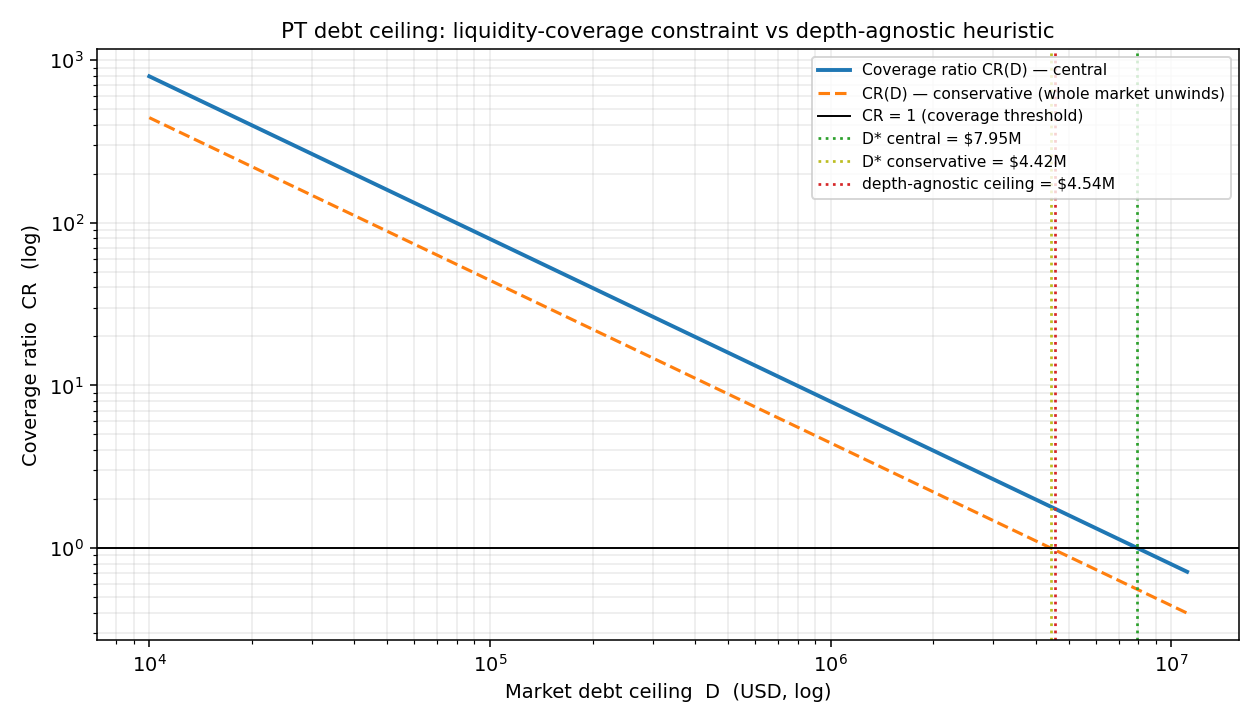
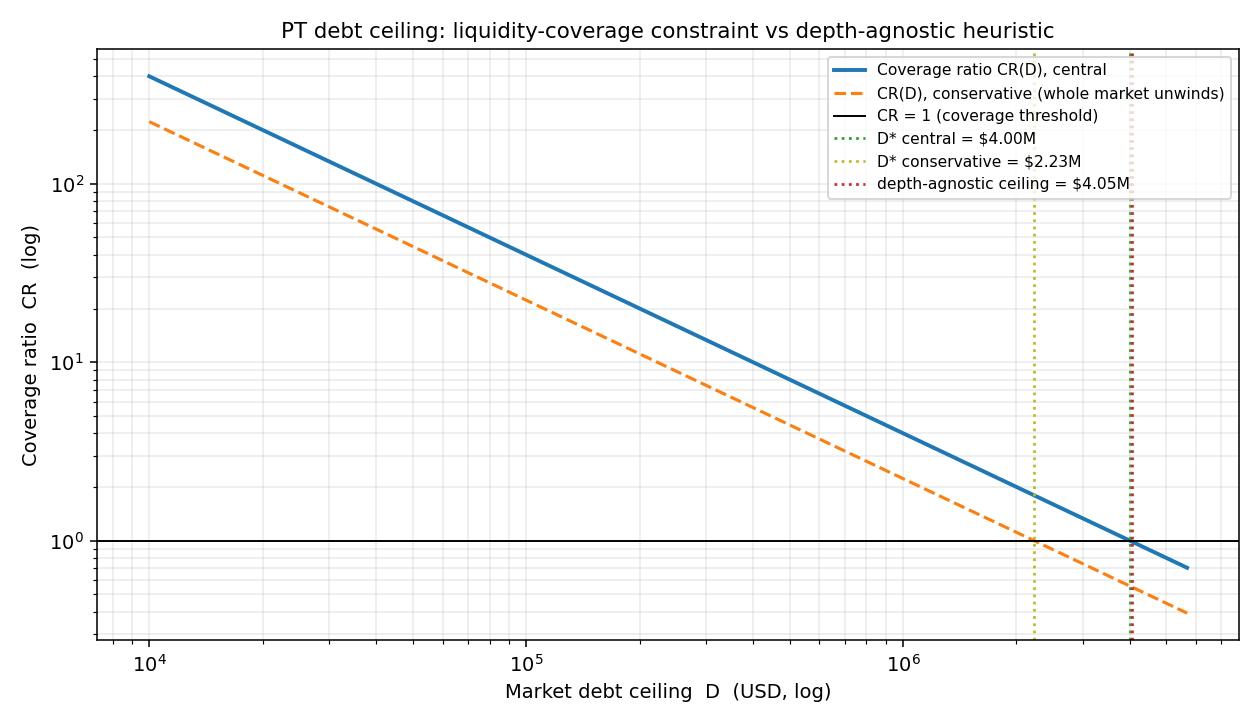
Governance post: dual-anchor empirical section (near-maturity cliff vs far-maturity gradual regime), Pendle-only provenance curves, retrieval signature fix

diff --git a/pendle_depth.py b/pendle_depth.py
@@ -92,6 +92,7 @@ def fetch_swap_quote(
     token_out: str,
     amount_in_wei: int,
     receiver: str,
+    enable_aggregator: bool,
     timeout: float,
     soft: bool = False,
 ) -> dict[str, Any] | None:
@@ -151,8 +152,10 @@ def build_depth_curve(
     for size_pt in sizes_pt:
         amount_in_wei = int(round(size_pt * (10 ** pt_decimals)))
         data = fetch_swap_quote(
-            base_url, chain_id, market, pt_address, out_token,
-            amount_in_wei, receiver, enable_aggregator, timeout, soft=True,
+            base_url=base_url, chain_id=chain_id, market=market,
+            token_in=pt_address, token_out=out_token,
+            amount_in_wei=amount_in_wei, receiver=receiver,
+            enable_aggregator=enable_aggregator, timeout=timeout, soft=True,
         ) or {}
         block = data.get("data") or {}
         amount_out_wei = block.get("amountOut")

diff --git a/README.md b/README.md
@@ -1,140 +1,92 @@
-# LlamaLend PT Debt Ceilings: a Liquidity-Coverage Toolkit
+# Morpho Blue — Liquidity Stress Testing Framework
 
-Sizing Pendle Principal Token (PT) debt ceilings in Curve LlamaLend from **soft-liquidation capacity** under correlated stress. Companion code to a governance research contribution on gov.curve.finance (empirical anchor: the PT-sUSDe market maturing 13 August 2026).
+> A Basel III–inspired liquidity stress testing framework applied to Morpho Blue isolated lending markets and MetaMorpho vaults.
 
-## The idea in one paragraph
+**Status**: Phase 0 — methodological draft. Not production-ready. Not investment advice.
 
-LlamaLend lends crvUSD against PT collateral. A PT is economically a zero-coupon
-claim that redeems 1:1 for an underlying at a fixed date. If collateral value
-falls, LLAMMA (Curve's soft-liquidation AMM) must progressively convert that PT
-into crvUSD, which ultimately means **selling the PT into its secondary market
-(Pendle)**. The more you must sell, the worse the price (slippage). The trap:
-the event that *forces* the sale (an underlying depeg / a widening PT discount)
-is the same event that *drains* PT liquidity. That is a fire-sale exactly when you can
-least afford one, producing bad debt for lenders. So the binding question is not
-"what is the PT worth" (oracles solved that) but **"can the market absorb the
-forced unwind without a fire-sale?"** This toolkit answers it by transposing the
-Basel III Liquidity Coverage Ratio (BCBS 238) survival-horizon logic onchain:
+---
+
+## Motivation
+
+DeFi lending pools are inherently fragile under stress (Chiu et al., BIS 2023), yet most public risk reporting on DeFi protocols transposes Basel concepts informally. This project formalizes a Basel III–equivalent liquidity stress framework for Morpho Blue, with two contributions:
+
+1. An explicit on-chain analogue of the **Liquidity Coverage Ratio (LCR)** and **Net Stable Funding Ratio (NSFR)**, with stated mapping limitations.
+2. A first quantitative measure of **MetaMorpho curator risk discipline** — the gap between observed allocation and the allocation that minimizes 30-day liquidity Value-at-Risk under the framework.
+
+The work is calibrated on the April 2026 KelpDAO event as a primary stress anchor, alongside the March 2023 USDC depeg and the May 2022 stETH discount.
+
+---
+
+## Repository structure
 
 ```
-Coverage ratio:  CR(D) = L_stress / V_liq(D)
-Safe ceiling:    D* = max { D : CR(D) >= 1 }
+morpho-blue-liquidity-stress/
+├── docs/
+│   ├── METHODOLOGY.md       # Core methodological note (start here)
+│   └── references.md        # Annotated bibliography
+├── src/                     # Python implementation (Phase 2+)
+├── data/                    # Local Parquet cache (Phase 2+)
+├── notebooks/               # Reproducible analyses (Phase 3+)
+├── scripts/                 # Data acquisition entry points (Phase 2+)
+├── tests/                   # pytest suite (Phase 2+)
+└── README.md
 ```
 
-* `V_liq(D)`: PT collateral the market is forced to unwind under stress, given debt ceiling D
-* `L_stress`: PT secondary liquidity absorbable within an acceptable slippage bound, after a maturity haircut and a wrong-way (procyclical) depth-contraction factor
+---
 
-If `V_liq(D) > L_stress`, the market is over-sized; `D*` is the largest safe size.
+## Roadmap
 
-## Files
-
-| File | Role | Needs internet? |
+| Phase | Deliverable | Status |
 |---|---|---|
-| `coverage_model.py` | Core math: V_liq, L_stress, CR, D*, benchmark. Pure, typed, tested. | No |
-| `run_analysis.py` | CLI: load depth curve, produce report + chart. | No |
-| `synthetic.py` | Synthetic depth curve to demo the pipeline. **Illustrative only.** | No |
-| `discover_market.py` | Lists active Pendle markets matching a name and prints a ready-to-paste `pendle_depth.py` command with the correct addresses. | **Yes (Pendle API)** |
-| `pendle_depth.py` | Retrieval: builds the REAL PT price-impact curve from Pendle API swap quotes. | **Yes (Pendle API)** |
-| `dune/underlying_price_history.sql` | Underlying price history: stress depeg + rho calibration. | Run on Dune |
-| `dune/pendle_pt_liquidity_context.sql` | Pendle market liquidity context over time: rho. | Run on Dune |
-| `tests/test_coverage_model.py` | Unit tests (run: `python tests/test_coverage_model.py`). | No |
-| `pt_depth_curve.csv` | Measured PT-sUSDe depth curve (Pendle API quotes) used in the forum analysis. | n/a |
-| `example_depth_curve.csv` | Minimal CSV schema example. | n/a |
-| `coverage_chart.png`, `dstar_vs_rho.png` | Output figures. | n/a |
+| **0** | Methodological note (`docs/METHODOLOGY.md`) | ✅ v0.2 |
+| **1** | Stress scenario formalization (`docs/SCENARIOS.md`) | ✅ v0.1 |
+| **2** | Data acquisition architecture (`docs/DATA.md`) + storage layer + tests | ✅ partial — architecture done, fetch scripts as skeletons |
+| **3** | Modeling: LCR_onchain, NSFR_conditional, slippage model, MC | ⏳ pending |
+| **4** | Historical backtest (KelpDAO + 2 secondary events) | ⏳ pending |
+| **5** | Forward-looking stress on top-5 markets | ⏳ pending |
+| **6** | Public deliverables (Dune dashboard, Mirror article, X thread) | ⏳ pending |
 
-## Quick start
+## Quick start (Phase 2 architecture)
 
 ```bash
-pip install -r requirements.txt
+# Install
+uv venv && source .venv/bin/activate
+uv pip install -e ".[dev]"
 
-# 1) Verify the engine and run an illustrative demo (no network):
-python tests/test_coverage_model.py
-python run_analysis.py --synthetic          # writes coverage_chart.png
+# Run the test suite (17 tests, ~2s)
+PYTHONPATH=src pytest tests/ -v
 
-# 2) Find a market and pull a REAL depth curve (needs Pendle API access).
-#    discover_market.py prints a ready-to-paste pendle_depth.py command
-#    with the correct market, PT, and out-token addresses:
-python discover_market.py --query sUSDe
-
-# 3) Run the analysis on a measured curve. Parameter values below are
-#    illustrative; the exact PT-sUSDe calibration used in the forum post
-#    is documented in the post itself:
-python run_analysis.py --depth-csv pt_depth_curve.csv \
-    --maturity-years 0.5 --max-ltv 0.90 --representative-ltv 0.80 \
-    --pool-tvl 100e6 --band-drop 0.08 \
-    --depeg 0.03 --discount-widen 0.04 --horizon-days 2 \
-    --sigma-max 0.02 --maturity-haircut 0.15 --rho 0.5 --underlying-vol 0.10
+# Set up local config
+cp config.yaml config.local.yaml  # then edit to add secrets via env vars
 ```
 
-## The three real inputs (and where to get them)
+---
 
-1. **Depth / slippage curve**: `pendle_depth.py` (Pendle Hosted SDK swap quotes
-   over a grid of sizes). This is the load-bearing input.
-2. **Stress calibration** (`--depeg`, `--discount-widen`): from the underlying's
-   worst historical deviation and the PT discount history (`dune/underlying_price_history.sql`).
-3. **Wrong-way factor** (`--rho`): from the co-movement of underlying deviation
-   and PT depth (both Dune queries). Until estimated, treat `rho` as a sensitivity input.
+## How to read this repo (for reviewers / employers)
 
-## Model scope and assumptions (v0.1)
+If you have **5 minutes**: read [`docs/METHODOLOGY.md`](./docs/METHODOLOGY.md) §1–2 and §4. That is the entire intellectual contribution at the methodology layer.
 
-The ceiling D* is an indicative figure under stated assumptions, not a guarantee. Read these before quoting any number:
+If you have **30 minutes**: read the full methodology note and skim the bibliography in [`docs/references.md`](./docs/references.md) to assess the academic grounding.
 
-* Static coverage constraint, not a simulation: no dynamic model of LLAMMA band traversal, oracle path, arbitrage or de-liquidation. The soft-liquidated fraction is a linear proxy in the collateral shock.
-* The horizon H parameterises the calibration of the stress inputs (depeg, discount widening, withdrawal fraction are H-horizon stressed moves); stressed depth is treated as instantaneous capacity with no replenishment term, which is conservative for multi-day horizons.
-* The maturity effect enters through the exogenous haircut h(tau) supplied per maturity family; `maturity_years` feeds the depth-agnostic benchmark, not the coverage formula.
-* A single representative LTV stands in for the borrower distribution; `max_ltv` is a validation bound.
-* Every unit unwound by LLAMMA is assumed to hit Pendle secondary liquidity one for one (no OTC absorption, no holders of last resort): conservative.
-
-## Limitations
-
-* **`synthetic.py` is illustrative only.** No number in the accompanying
-  analysis derives from it; every published figure comes from real retrieval
-  (`pt_depth_curve.csv`).
-* **The AMM is treated as source of truth, not re-implemented.** `pendle_depth.py`
-  asks Pendle for quotes rather than re-deriving its (Notional-style) AMM math,
-  to avoid correctness risk. A fully trustless alternative is to read the
-  onchain `MarketState` and price with Pendle's own SDK: heavier, same result.
-* **`V_liq` is modeled, not measured.** Where LlamaLend v2 PT markets are not
-  live, the unwound-volume side uses a parametric soft-liquidation model
-  (`soft_liq_band_drop`, `representative_ltv`). It is the most assumption-heavy
-  piece; report it with sensitivity, not as a point estimate.
-* **The benchmark ceiling is illustrative.** `heuristic_depth_agnostic_ceiling`
-  is a depth-agnostic stand-in to make the comparison concrete; the contribution
-  is the *method* and the *relative* result (does execution bind tighter?), not
-  that specific number.
-* **API drift.** Pendle and Dune routes change; `pendle_depth.py` fails loudly on
-  a schema mismatch. Verify against current Pendle API docs.
+If you have **2 hours**: clone the repo (when implementation phases land), reproduce the dashboard end-to-end from `scripts/`, and verify the stress test on the KelpDAO replay scenario.
 
 ---
 
-## Citing this work
+## Methodological positioning
 
-If this toolkit informs your research or analysis, please cite:
-
-> Pierre-Antoine Andrighetti. (2026). *LlamaLend PT debt ceilings: a liquidity-coverage toolkit for Pendle principal-token collateral under correlated stress.* https://github.com/paandrighetti/llamalend_pt_coverage
-
----
-
-## Contact
-
-https://www.linkedin.com/in/pierre-antoine-andrighetti
-https://x.com/bandulf
[email redacted]
+| Reference | Approach | Our positioning |
+|---|---|---|
+| Gauntlet, Chaos Labs | Agent-based simulation of liquidations | We are simpler (deterministic stress shocks at empirical quantiles) and explicitly acknowledge this gap; targeted as v1. |
+| LlamaRisk, Block Analitica | Descriptive risk reports per market | We provide an explicit Basel mapping and a falsifiable hypothesis structure that they do not. |
+| Chiu et al. (BIS 2023) | Theoretical model of DeFi run dynamics | We are empirical / applied; their model justifies our framework's relevance but our work is implementation-oriented. |
+| Steakhouse Financial | Vault-curator centric | Our hypothesis 2 explicitly targets curator risk discipline as a quantifiable gap — a question they engage with operationally but do not formalize. |
 
 ---
-
-## Depth measurement notes
-
-`pendle_depth.py` v0.2 quotes with aggregator routing disabled by default (`--enable-aggregator` to opt in), enforces a spot sanity check on the smallest execution, and writes provenance columns (timestamp, chain, market, addresses, API base, routing mode) into the CSV. The committed `pt_depth_curve.csv` was pulled with the pre-v0.2 script (aggregator enabled, no provenance columns); re-pull with the current script to reproduce the curve under Pendle-only routing.
 
 ## License
 
-MIT. See [LICENSE](./LICENSE).
+MIT (to be confirmed before public release).
 
 ## Disclaimer
 
-This work is independent and exploratory. It is not investment advice, not a
-recommendation to borrow from or provide liquidity to any Curve LlamaLend or
-Pendle market, and not a substitute for a security audit or formal risk
-assessment. The author has no affiliation with Curve, LlamaRisk, or Pendle
-beyond public usage.
+This work is academic and exploratory. It is not investment advice, not a recommendation to deposit on or borrow from any Morpho Blue market, and not a substitute for a security audit or formal risk assessment. The author has no affiliation with Morpho Labs, MetaMorpho curators, or any protocol mentioned, beyond public usage.